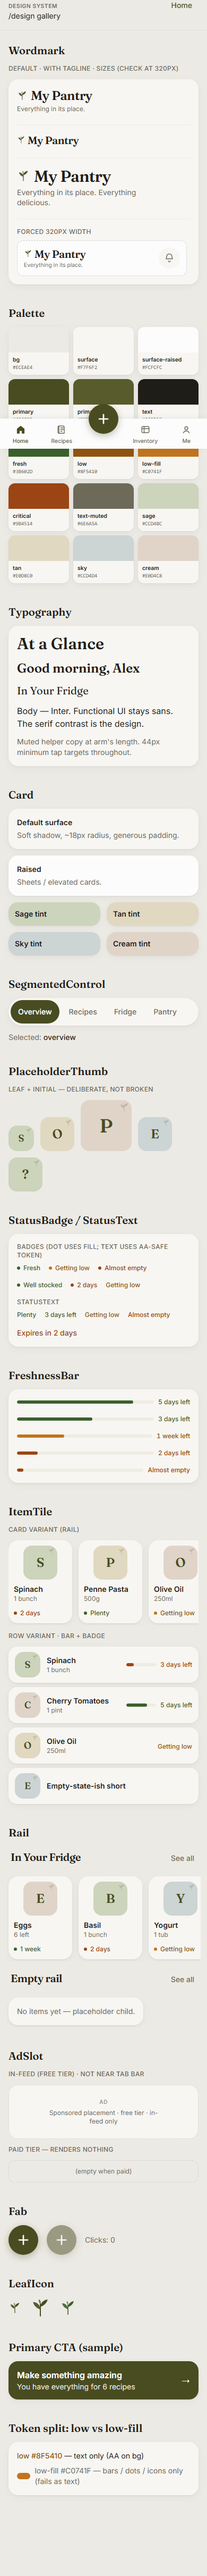
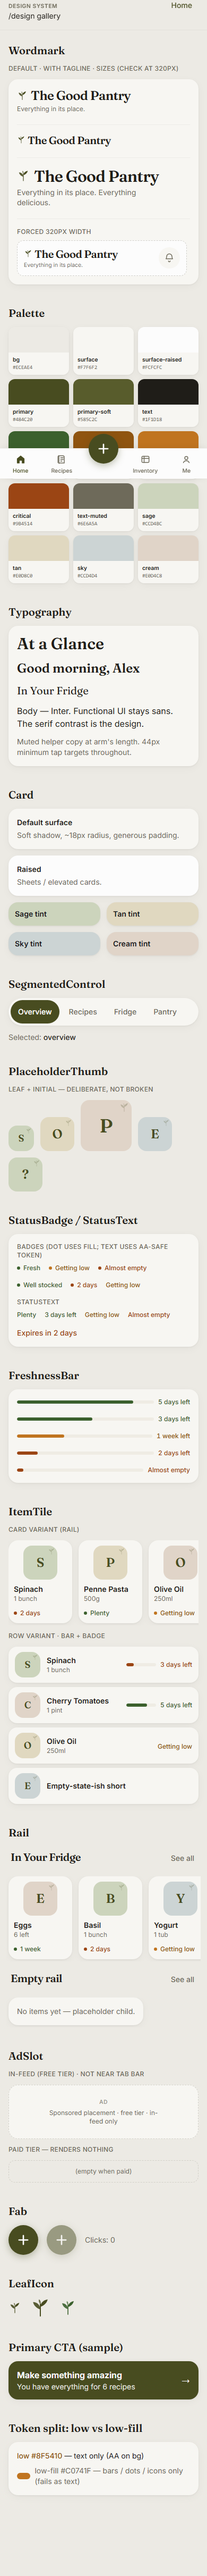
Rename product to The Good Pantry
"My Pantry" and "My Pantry App" were taken in App Store Connect, and so was
"Well Stocked" - the iTunes Search API only sees PUBLISHED apps, so it cannot
detect names that are merely reserved. Checked candidates by how uncontested
the surrounding category was rather than exact-match alone.

Renamed case-sensitively (-creplace): the brand string "Well Stocked" moved to
"The Good Pantry", while the status label "Well stocked" - which comes from the
approved mockups and is used by StatusBadge - was deliberately preserved. A
case-insensitive replace would have silently corrupted it.

Wordmark uses "The Good&nbsp;Pantry" so "Good Pantry" stays bound while "The"
may break; verified no horizontal overflow at 320px. Added
scripts/screenshot-design.mjs which asserts that rather than eyeballing it.

Bundle id com.josh17400.mypantry is unchanged - it is already registered,
invisible to users, and permanent.

Changed region(s): [[0.0, 0.1558, 1.0, 0.187], [0.1538, 0.0312, 0.5231, 0.0935]]

diff --git a/apps/web/src/ui/Wordmark.tsx b/apps/web/src/ui/Wordmark.tsx
@@ -32,7 +32,7 @@ const sizeMap = {
 } as const;
 
 /**
- * "My Pantry" wordmark — display serif + leaf.
+ * "The Good Pantry" wordmark — display serif + leaf.
  * Longer than mockup "Larder"; lockup is compact at 320px.
  */
 export function Wordmark({
@@ -48,7 +48,7 @@ export function Wordmark({
       <div className={cn('flex items-center', s.gap)}>
         <LeafIcon
           className={cn('shrink-0 text-primary', s.leaf)}
-          title="My Pantry"
+          title="The Good Pantry"
         />
         <span
           className={cn(
@@ -56,7 +56,7 @@ export function Wordmark({
             s.text,
           )}
         >
-          My&nbsp;Pantry
+          The Good&nbsp;Pantry
         </span>
       </div>
       {showTagline ? (

diff --git a/apps/web/src/routes/HomePage.tsx b/apps/web/src/routes/HomePage.tsx
@@ -15,7 +15,7 @@ export function HomePage() {
   return (
     <div className="flex flex-col items-center text-center">
       <h1 className="mb-2 text-3xl font-bold tracking-tight text-zinc-900">
-        My Pantry
+        The Good Pantry
       </h1>
       <p className="mb-8 max-w-md text-base text-zinc-600">
         Shell scaffold (React + Vite + Capacitor). No product features yet —

diff --git a/apps/web/src/App.tsx b/apps/web/src/App.tsx
@@ -25,7 +25,7 @@ export function App() {
       <header className="border-b border-black/[0.04] bg-surface">
         <nav className="mx-auto flex max-w-3xl items-center gap-6 px-4 py-3">
           <Link to="/" className="font-display text-sm font-semibold text-ink">
-            My Pantry
+            The Good Pantry
           </Link>
           <Link
             to="/design"

diff --git a/apps/web/index.html b/apps/web/index.html
@@ -7,7 +7,7 @@
       content="width=device-width, initial-scale=1.0, viewport-fit=cover"
     />
     <meta name="theme-color" content="#fafafa" />
-    <title>My Pantry</title>
+    <title>The Good Pantry</title>
   </head>
   <body class="bg-zinc-50 text-zinc-900 antialiased">
     <div id="root"></div>

diff --git a/apps/web/src/db/drivers/native.ts b/apps/web/src/db/drivers/native.ts
@@ -25,7 +25,7 @@ import {
 } from '../repository';
 import { healthProbe } from '../schema';
 
-const DB_NAME = 'my-pantry-m0';
+const DB_NAME = 'well-stocked-m0';
 const DB_VERSION = 1;
 const BATCH_SIZE = 1000;
 

diff --git a/DESIGN.md b/DESIGN.md
@@ -1,11 +1,11 @@
-# My Pantry — Design Language
+# The Good Pantry — Design Language
 
 Derived from three owner-approved concept mockups (2026-07-25). These define the target look
 and the information architecture.
 
-> **The product name is "My Pantry."** The mockups show the working name *Larder* in the
+> **The product name is "The Good Pantry."** The mockups show the working name *Larder* in the
 > wordmark — that is the one thing in them not to copy. Everything else about the concepts is
-> the target. The wordmark needs redrawing as **My Pantry** in the same editorial serif, and
+> the target. The wordmark needs redrawing as **The Good Pantry** in the same editorial serif, and
 > it is longer, so the header lockup needs checking at small widths.
 
 **Reference images** (in repo — Grok instances should look at these directly):
@@ -73,7 +73,7 @@ Warmth is the rule. Every neutral is warm-shifted. A cool gray anywhere will loo
 
 ## Type
 
-- **Display / headings** — high-contrast editorial serif. `My Pantry`, `At a Glance`,
+- **Display / headings** — high-contrast editorial serif. `The Good Pantry`, `At a Glance`,
   `In Your Fridge`, `Good morning, Alex`. Recommend **Fraunces** (variable, warm, optical
   sizing) or **Instrument Serif**. Both are free and load via `expo-font`.
 - **Body / UI** — clean sans. Recommend **Inter** (variable, excellent at small sizes).

diff --git a/SPEC.md b/SPEC.md
@@ -1,4 +1,4 @@
-# My Pantry — Pantry / Recipe / Grocery App
+# The Good Pantry — Pantry / Recipe / Grocery App
 
 **SPEC v2** — revised 2026-07-25 after adversarial red-team (`reports/redteam.md`).
 This document is the design authority. Every Grok brief is written from it.
@@ -9,10 +9,10 @@ This document is the design authority. Every Grok brief is written from it.
 
 Greenfield at `C:\Users\joshu\Documents\Larder`.
 
-> **Naming:** the product is **My Pantry**. `Larder` was the working name and survives only as
+> **Naming:** the product is **The Good Pantry**. `Larder` was the working name and survives only as
 > the folder name and in the concept mockups' wordmark. The directory rename is deferred until
 > M0 finishes — a Grok instance is currently bound to that path. `app.json` display name,
-> the wordmark, and all user-facing copy use **My Pantry**.
+> the wordmark, and all user-facing copy use **The Good Pantry**.
 
 The problem: you're standing in a grocery store thinking *"I want to make chicken parm — do I already have parmesan?"* and you have no way to know. Pantry apps fail because keeping inventory accurate is manual drudgery. This app's bet is that the pantry maintains itself, because the two events that change it are things you already do: you buy groceries (photograph the receipt) and you cook (tap the recipe).
 

diff --git a/CI_SETUP.md b/CI_SETUP.md
@@ -12,8 +12,8 @@ secrets, same cert-persistence pattern, same failure modes.
 
 | Field | Value |
 |---|---|
-| App name | My Pantry |
-| Bundle id | `com.josh17400.mypantry` |
+| App name | The Good Pantry |
+| Bundle id | `com.josh17400.WellStocked` |
 | Capacitor config | `native/capacitor.config.json` |
 | Fastlane Appfile | `native/ios/fastlane/Appfile` |
 
@@ -69,7 +69,7 @@ automatically each run via the API key.
 
 ## 3. One-time App Store Connect setup
 
-1. Register bundle id `com.josh17400.mypantry` (developer.apple.com → Identifiers).
+1. Register bundle id `com.josh17400.WellStocked` (developer.apple.com → Identifiers).
    Cloud signing can often auto-register it, but doing it manually avoids a
    first-run surprise.
 2. Create the app record in App Store Connect (My Apps → "+") with that

diff --git a/native/README.md b/native/README.md
@@ -1,12 +1,12 @@
-# My Pantry — Capacitor native wrapper
+# The Good Pantry — Capacitor native wrapper
 
 Mirrors the owner's euchre-game layout (`native/` next to the web app, not
 inside it).
 
 | Item | Value |
 |---|---|
-| appId | `com.josh17400.mypantry` |
-| appName | My Pantry |
+| appId | `com.josh17400.WellStocked` |
+| appName | The Good Pantry |
 | webDir | `../apps/web/dist` |
 | Capacitor | 8.x |
 | SQLite plugin | `@capacitor-community/sqlite` 8.x |
